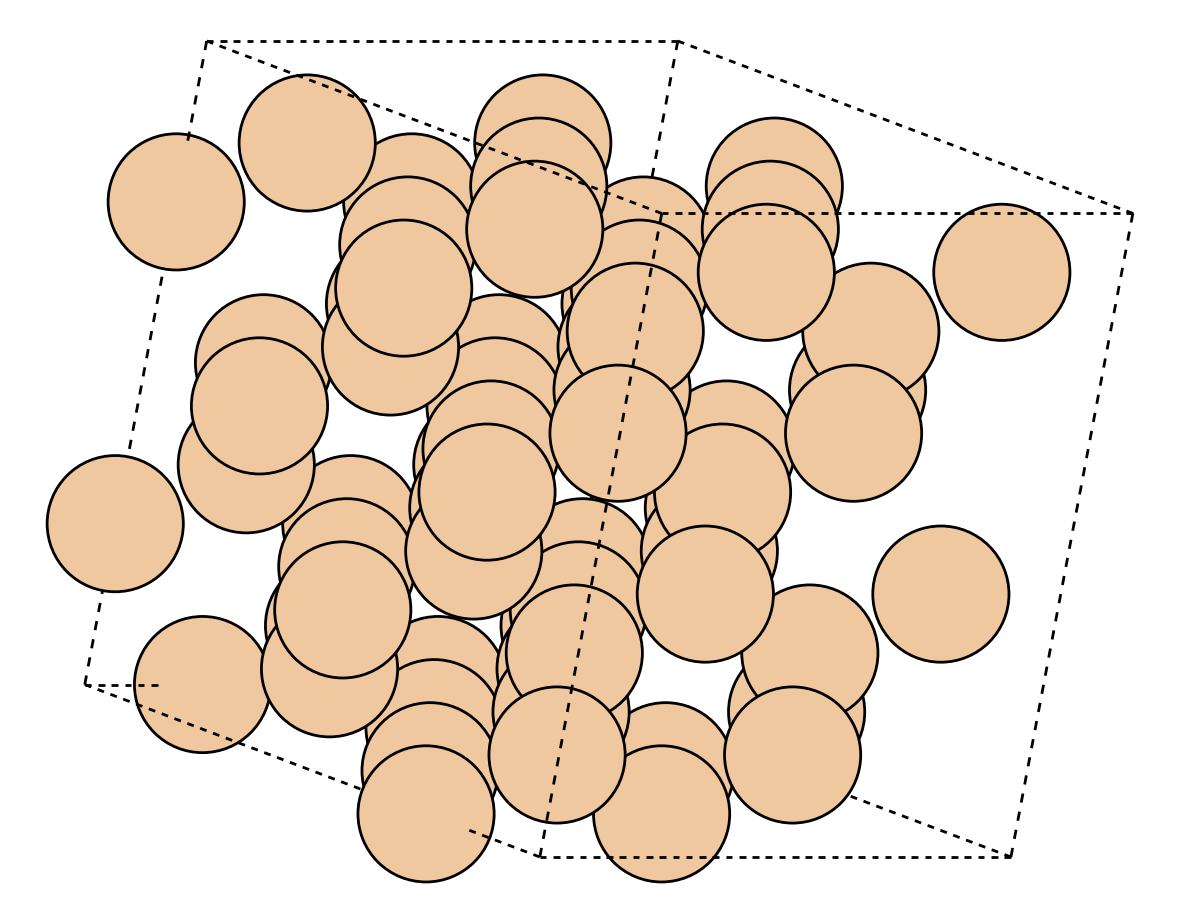
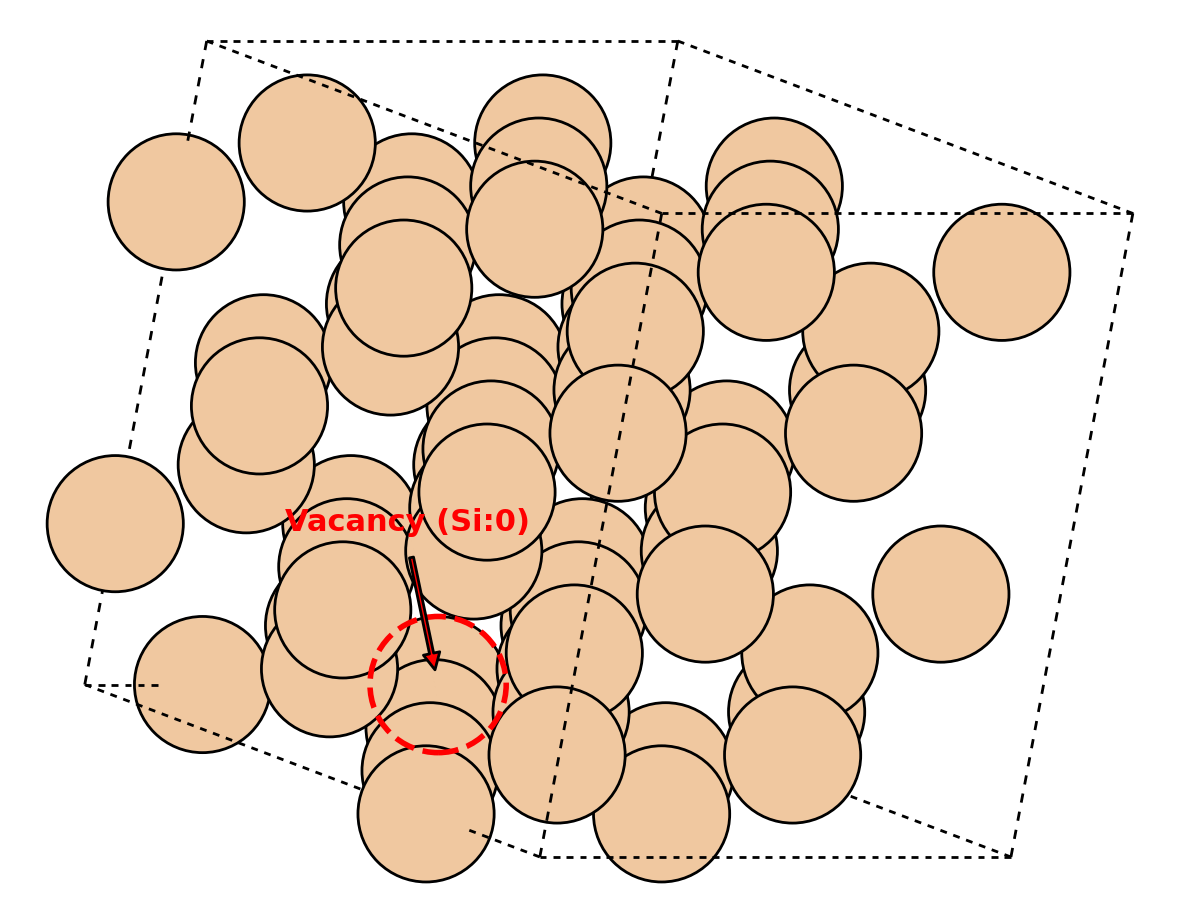
docs: overlay red dashed circle and arrow for vacancy in Example 6

Changed region(s): [[0.3051, 0.6067, 0.4271, 0.7887], [0.2441, 0.546, 0.4576, 0.5764], [0.3356, 0.7584, 0.4271, 0.8191]]

diff --git a/scripts/generate_images.py b/scripts/generate_images.py
@@ -114,8 +114,66 @@ def main():
     ex6_out = ex6_in.copy()
     apply_vacancies_by_index(ex6_out, ["Si:0"])
 
-    save_render(AseAtomsAdaptor.get_atoms(ex6_in), os.path.join(output_dir, "ex6_input.png"), rotation="15x,45y,0z")
-    save_render(AseAtomsAdaptor.get_atoms(ex6_out), os.path.join(output_dir, "ex6_output.png"), rotation="15x,45y,0z")
+    # Render input first and get position of atom index 0
+    fig, ax = plt.subplots(figsize=(6, 6))
+    plot_atoms(
+        AseAtomsAdaptor.get_atoms(ex6_in),
+        ax,
+        rotation="15x,45y,0z",
+        show_unit_cell=2,
+    )
+    from matplotlib.patches import Circle
+
+    circles = [p for p in ax.patches if isinstance(p, Circle)]
+    vacancy_pos = circles[0].center
+    vacancy_radius = circles[0].radius
+
+    ax.set_axis_off()
+    plt.tight_layout()
+    ex6_in_path = os.path.join(output_dir, "ex6_input.png")
+    plt.savefig(ex6_in_path, bbox_inches="tight", transparent=True, dpi=200)
+    plt.close(fig)
+    print(f"Saved: {ex6_in_path}")
+
+    # Render output and overlay the ghost atom + annotation
+    fig, ax = plt.subplots(figsize=(6, 6))
+    plot_atoms(
+        AseAtomsAdaptor.get_atoms(ex6_out),
+        ax,
+        rotation="15x,45y,0z",
+        show_unit_cell=2,
+    )
+
+    # Draw ghost atom (red dashed circle)
+    ghost = Circle(
+        vacancy_pos,
+        vacancy_radius,
+        fill=False,
+        edgecolor="red",
+        linestyle="--",
+        linewidth=2.0,
+    )
+    ax.add_patch(ghost)
+
+    # Draw arrow and label pointing to it
+    ax.annotate(
+        "Vacancy (Si:0)",
+        xy=vacancy_pos,
+        xytext=(vacancy_pos[0] - 2.5, vacancy_pos[1] + 2.5),
+        arrowprops=dict(
+            facecolor="red", shrink=0.1, width=1.5, headwidth=6, headlength=6
+        ),
+        color="red",
+        fontweight="bold",
+        fontsize=11,
+    )
+
+    ax.set_axis_off()
+    plt.tight_layout()
+    ex6_out_path = os.path.join(output_dir, "ex6_output.png")
+    plt.savefig(ex6_out_path, bbox_inches="tight", transparent=True, dpi=200)
+    plt.close(fig)
+    print(f"Saved: {ex6_out_path}")
 
     # ==========================================
     # Example 7: STO_bulk -> STO_100_slab